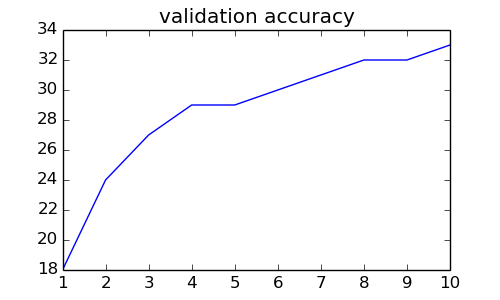
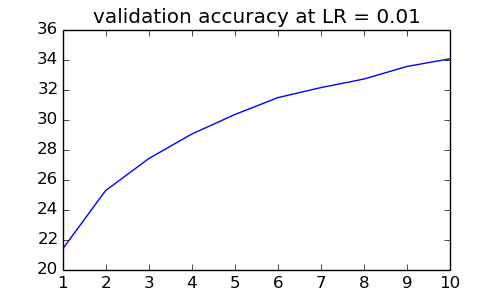
redo graphs

diff --git a/Assn3/prob2.py b/Assn3/prob2.py
@@ -2,7 +2,7 @@
 # @Date:   2018-05-13T18:57:58-07:00
 # @Filename: prob.py
 # @Last modified by:   Arthur Shing
-# @Last modified time: 2018-05-14T12:37:48-07:00
+# @Last modified time: 2018-05-14T16:52:39-07:00
 # Much code grabbed from Markus Koskela,
 # https://github.com/CSCfi/machine-learning-scripts/blob/master/notebooks/pytorch-mnist-mlp.ipynb
 import matplotlib
@@ -39,14 +39,14 @@ class Net(nn.Module):
     def __init__(self):
         super(Net, self).__init__()
         self.fc1 = nn.Linear(32*32*3, 100)
-        self.fc1_drop = nn.Dropout(0.2)
+        self.fc1_drop = nn.Dropout(0.2) # TODO: part 3
         # self.fc2 = nn.Linear(50, 50)
         # self.fc2_drop = nn.Dropout(0.2)
         self.fc2 = nn.Linear(100, 10)
 
     def forward(self, x):
         x = x.view(-1, 32*32*3)
-        # x = F.logsigmoid(self.fc1(x))
+        # x = F.logsigmoid(self.fc1(x)) # NOTE: for part 1
         x = F.relu(self.fc1(x))
         x = self.fc1_drop(x)
         # x = F.relu(self.fc2(x))
@@ -102,7 +102,7 @@ plt.imsave("mnist.png",X_train[i,:,:,:].numpy().reshape(32,32,3))
 
 def main():
     LEARNRATE = float(sys.argv[1])
-    optimizer = optim.SGD(model.parameters(), lr=LEARNRATE, momentum=0.5)
+    optimizer = optim.SGD(model.parameters(), lr=LEARNRATE, momentum=0.5) #TODO: part 3 , mmomentum and weight_decay=0
     epochs = 10
 
     lossv, accv = [], []
@@ -112,12 +112,12 @@ def main():
 
     plt.figure(figsize=(5,3))
     plt.plot(np.arange(1,epochs+1), lossv)
-    plt.title('validation loss')
+    plt.title('validation loss at LR = ' + str(LEARNRATE))
     plt.savefig(str(LEARNRATE) + "RELUloss.png")
 
     plt.figure(figsize=(5,3))
     plt.plot(np.arange(1,epochs+1), accv)
-    plt.title('validation accuracy');
+    plt.title('validation accuracy at LR = ' + str(LEARNRATE))
     plt.savefig(str(LEARNRATE) + "RELUacc.png")
 
 
@@ -153,7 +153,7 @@ def validate(loss_vector, accuracy_vector, optimizer):
     val_loss /= len(validation_loader)
     loss_vector.append(val_loss)
 
-    accuracy = 100. * correct / len(validation_loader.dataset)
+    accuracy = 100.0 * float(correct) / float(len(validation_loader.dataset))
     accuracy_vector.append(accuracy)
 
     print('\nValidation set: Average loss: {:.4f}, Accuracy: {}/{} ({:.0f}%)\n'.format(

diff --git a/Assn3/prob1.py b/Assn3/prob1.py
@@ -2,7 +2,7 @@
 # @Date:   2018-05-13T18:57:58-07:00
 # @Filename: prob.py
 # @Last modified by:   Arthur Shing
-# @Last modified time: 2018-05-14T12:38:01-07:00
+# @Last modified time: 2018-05-14T16:51:42-07:00
 # Much code grabbed from Markus Koskela,
 # https://github.com/CSCfi/machine-learning-scripts/blob/master/notebooks/pytorch-mnist-mlp.ipynb
 import matplotlib
@@ -47,7 +47,7 @@ class Net(nn.Module):
     def forward(self, x):
         x = x.view(-1, 32*32*3)
         x = F.logsigmoid(self.fc1(x))
-        # x = F.relu(self.fc1(x))
+        # x = F.relu(self.fc1(x)) # NOTE: for part 2
         x = self.fc1_drop(x)
         # x = F.relu(self.fc2(x))
         # x = self.fc2_drop(x)
@@ -102,7 +102,7 @@ plt.imsave("mnist.png",X_train[i,:,:,:].numpy().reshape(32,32,3))
 
 def main():
     LEARNRATE = float(sys.argv[1])
-    optimizer = optim.SGD(model.parameters(), lr=LEARNRATE, momentum=0.5)
+    optimizer = optim.SGD(model.parameters(), lr=LEARNRATE, momentum=0.5) #TODO: part 3 , momemntum and weight_decay=0
     epochs = 10
 
     lossv, accv = [], []
@@ -112,12 +112,12 @@ def main():
 
     plt.figure(figsize=(5,3))
     plt.plot(np.arange(1,epochs+1), lossv)
-    plt.title('validation loss')
+    plt.title('validation loss at LR = ' + str(LEARNRATE))
     plt.savefig(str(LEARNRATE) + "SIGMOIDloss.png")
 
     plt.figure(figsize=(5,3))
     plt.plot(np.arange(1,epochs+1), accv)
-    plt.title('validation accuracy');
+    plt.title('validation accuracy at LR = ' + str(LEARNRATE))
     plt.savefig(str(LEARNRATE) + "SIGMOIDacc.png")
 
 
@@ -153,7 +153,7 @@ def validate(loss_vector, accuracy_vector, optimizer):
     val_loss /= len(validation_loader)
     loss_vector.append(val_loss)
 
-    accuracy = 100. * correct / len(validation_loader.dataset)
+    accuracy = 100.0 * float(correct) / float(len(validation_loader.dataset))
     accuracy_vector.append(accuracy)
 
     print('\nValidation set: Average loss: {:.4f}, Accuracy: {}/{} ({:.0f}%)\n'.format(
